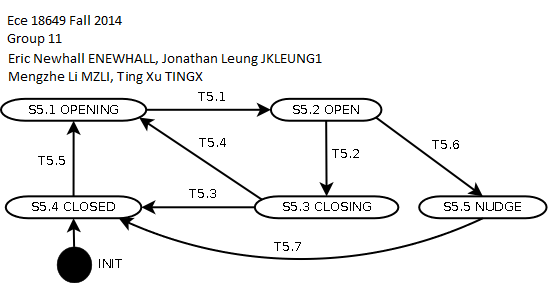
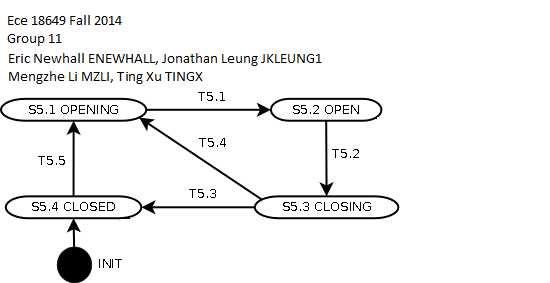
door control requirements completed

diff --git a/portfolio/reqs/requirements2.html b/portfolio/reqs/requirements2.html
@@ -1012,26 +1012,19 @@ positions at all times.<br>
 5.5&nbsp;&nbsp;&nbsp; If CarWeight(x) &gt;= MaxCarCapacity, the doors
 shall open completely until the car is no longer overloaded.
 <h3> TIME-TRIGGERED BEHAVIORS: </h3>
-5.6 &nbsp;&nbsp; If any ((mAtFloor[mDesiredFloor.f, b] = True or (mHallCall[mAtFloor.f, b, DesiredDirection] = True) , and (mDriveSpeed = (0, d) or mDriveSpeed = (s, Stop)))
-then: <br>
-&nbsp;&nbsp;&nbsp; 5.6.1&nbsp; DoorMotor[b, r] shall be commanded to
-Open; <br>
+5.6 &nbsp;&nbsp; If any ((mAtFloor[mDesiredFloor.f, b] = True and (mDriveSpeed = (0, d) or mDriveSpeed = (s, Stop))) then: <br>
+&nbsp;&nbsp;&nbsp; 5.6.1&nbsp; DoorMotor[b, r] shall be commanded to Open; <br>
 &nbsp;&nbsp;&nbsp; 5.6.2&nbsp; CountDown shall be set to Dwell.<br>
 
 5.7 &nbsp;&nbsp; If mDoorOpened[b, r] is True, then<br>
 &nbsp;&nbsp;&nbsp; 5.7.1&nbsp; DoorMotor[b,r] shall be commanded to
 Stop.<br>
 &nbsp;&nbsp;&nbsp; 5.7.2&nbsp; CountDown shall be decremented.<br>
-5.8&nbsp; If mDoorClosed[b, r] is True, then DoorMotor[b,r] should be
-commanded to Stop.<br>
-5.9 When Reversal = false and CountDown &lt;= 0 AND mCarWeight &lt; MaxCarCapacity, DoorMotor[b,r] should be commanded
-to Close.<br>
-5.10 If mCarWeight(g) &gt;= MaxCarCapacity, and mDoorOpened[b, r] is
-False, DoorMotor[b, r] shall be commanded to Open.<br>
+5.8&nbsp; If mDoorClosed[b, r] is True, then DoorMotor[b,r] should be commanded to Stop.<br>
+5.9 When CountDown &lt;= 0 AND mCarWeight &lt; MaxCarCapacity, DoorMotor[b,r] should be commanded to Close.<br>
+5.10 If mCarWeight(g) &gt;= MaxCarCapacity, and mDoorOpened[b, r] is False, DoorMotor[b, r] shall be commanded to Open.<br>
 5.11 mDoorMotor[b,r] shall be set to the current value of DoorMotor[b,r]<br>
 5.12 If mDoorReversal[b,*] is true and mDoorMotor = Close, then DoorMotor[b,*] shall be commanded to Open.<br>
-5.13 When Reversal = true and CountDown &lt;= 0 AND mCarWeight &lt; MaxCarCapacity, DoorMotor[b,r] should be commanded to Nudge.<br>
-
 
 <p> <img style="width: 550px; height: 283x;" alt="DoorControl Statechart" src="DoorControl_state_diagram.png"><br clear="left"> </p>
 <table style="text-align: left; width: 800px; height: 172px;" border="1" cellpadding="2" cellspacing="2">
@@ -1046,7 +1039,7 @@ False, DoorMotor[b, r] shall be commanded to Open.<br>
     </tr>
     <tr>
       <td style="vertical-align: top;">T5.2</td>
-      <td style="vertical-align: top;">Reversal = false and mCarWeight &lt; MaxCarCapacity and CountDown &lt;= 0 and mDesiredFloor.f != mAtFloor.f</td>
+      <td style="vertical-align: top;">mCarWeight &lt; MaxCarCapacity and CountDown &lt;= 0 and mDesiredFloor.f != mAtFloor.f</td>
     </tr>
     <tr>
       <td style="vertical-align: top;">T5.3</td>
@@ -1060,16 +1053,6 @@ False, DoorMotor[b, r] shall be commanded to Open.<br>
       <td style="vertical-align: top;">T5.5<br>
       </td>
       <td style="vertical-align: top;">mCarWeight &gt;= MaxCarCapacity or ((mAtFloor[mDesiredFloor.f, b] = True or (mHallCall[mAtFloor.f, b,DesiredDirection] = True) , and (mDriveSpeed = (0, d) or mDriveSpeed = (s, Stop)))</td>
-    </tr>
-    <tr>
-      <td style="vertical-align: top;">T5.6<br>
-      </td>
-      <td style="vertical-align: top;">Reversal = true and mCarWeight &lt; MaxCarCapacity and CountDown &lt;= 0 and mDesiredFloor.f != mAtFloor.f</td>
-    </tr>
-    <tr>
-      <td style="vertical-align: top;">T5.7<br>
-      </td>
-      <td style="vertical-align: top;">mDoorClosed[b,r] = Closed </td>
     </tr>
   </tbody>
 </table>
@@ -1109,7 +1092,6 @@ False, DoorMotor[b, r] shall be commanded to Open.<br>
         DoorMotor[b,r] = Close <br>
 	    mDoorMotor[b,r] = Close <br>
 	    CountDown = CountDown <br>
-      	Reversal = true<br>
 	</td>
     </tr>
   <tr>
@@ -1118,16 +1100,6 @@ False, DoorMotor[b, r] shall be commanded to Open.<br>
       <td style="vertical-align: top;">
         DoorMotor[b,r] = Stop <br>
 	    mDoorMotor[b,r] = Stop <br>
-	    CountDown = CountDown <br>
-	Reversal = false
-      </td>
-    </tr>
-   <tr>
-      <td style="vertical-align: top;">S5.5 NUDGE<br> </td>
-      <td style="vertical-align: top;">Car doors detected an object and switch to nudge speed</td>
-      <td style="vertical-align: top;">
-        DoorMotor[b,r] = Nudge <br>
-	    mDoorMotor[b,r] = Nudge <br>
 	    CountDown = CountDown <br>
       </td>
     </tr>
@@ -1181,10 +1153,6 @@ completed by Mengzhe Li (mzli)<br>
 	  <td
  style="vertical-align: top; background-color: rgb(204, 204, 204);">R5.12<br>
       </td>
-      <td
- style="vertical-align: top; background-color: rgb(204, 204, 204);">R5.13<br>
-      </td>
-
     </tr>
     <tr>
       <td
@@ -1208,8 +1176,6 @@ completed by Mengzhe Li (mzli)<br>
       </td>
       <td style="vertical-align: top;"><br>
       </td>
-      <td style="vertical-align: top;"><br>
-      </td>
     </tr>
     <tr>
       <td
@@ -1229,8 +1195,6 @@ completed by Mengzhe Li (mzli)<br>
       <td style="vertical-align: top;"><br>
 	  </td>
       <td style="vertical-align: top;">X<br>
-      </td>
-      <td style="vertical-align: top;"><br>
       </td>
       <td style="vertical-align: top;"><br>
       </td>
@@ -1257,8 +1221,6 @@ completed by Mengzhe Li (mzli)<br>
       </td>
       <td style="vertical-align: top;">X<br>
       </td>
-      <td style="vertical-align: top;"><br>
-      </td>
 	  </tr>
 	  <tr>
       <td
@@ -1282,35 +1244,8 @@ completed by Mengzhe Li (mzli)<br>
       </td>
       <td style="vertical-align: top;"><br>
       </td>
-      <td style="vertical-align: top;"><br>
-      </td>
 	  </tr>
-    <tr>
- <td
- style="vertical-align: top; background-color: rgb(204, 204, 204);">S5.5:&nbsp; NUDGE<br>
-      </td>
-      <td style="vertical-align: top;"><br>
-      </td>
-      <td style="vertical-align: top;"><br>
-      </td>
-      <td style="vertical-align: top;"><br>
-      </td>
-      <td style="vertical-align: top;"><br>
-      </td>
-      <td style="vertical-align: top;"><br>
-      </td>
-      <td style="vertical-align: top;"><br>
-      </td>
-      <td style="vertical-align: top;"><br>
-	  </td>
-      <td style="vertical-align: top;">X<br>
-      </td>
-      <td style="vertical-align: top;"><br>
-      </td>
-      <td style="vertical-align: top;">X<br>
-      </td>
-	  </tr>
-    <tr>
+     <tr>
       <td
  style="vertical-align: top; background-color: rgb(204, 204, 204);"><span
  style="font-weight: bold;">Transitions</span><br>
@@ -1318,8 +1253,6 @@ completed by Mengzhe Li (mzli)<br>
       <td style="vertical-align: top;"><br>
       </td>
 	   <td style="vertical-align: top;"><br>
-      </td>
-      <td style="vertical-align: top;"><br>
       </td>
       <td style="vertical-align: top;"><br>
       </td>
@@ -1358,8 +1291,6 @@ completed by Mengzhe Li (mzli)<br>
       </td>
       <td style="vertical-align: top;"><br>
       </td>
-      <td style="vertical-align: top;"><br>
-      </td>
     </tr>
     <tr>
       <td
@@ -1379,8 +1310,6 @@ completed by Mengzhe Li (mzli)<br>
       <td style="vertical-align: top;"><br>
 	  </td>
       <td style="vertical-align: top;">X<br>
-      </td>
-      <td style="vertical-align: top;"><br>
       </td>
       <td style="vertical-align: top;"><br>
       </td>
@@ -1406,8 +1335,6 @@ completed by Mengzhe Li (mzli)<br>
       </td>
       <td style="vertical-align: top;"><br>
       </td>
-      <td style="vertical-align: top;"><br>
-      </td>
     </tr>
     <tr>
       <td
@@ -1426,8 +1353,6 @@ completed by Mengzhe Li (mzli)<br>
       </td>
       <td style="vertical-align: top;"><br>
 	  </td>
-      <td style="vertical-align: top;">X<br>
-      </td>
       <td style="vertical-align: top;">X<br>
       </td>
       <td style="vertical-align: top;">X<br>
@@ -1454,57 +1379,8 @@ completed by Mengzhe Li (mzli)<br>
       </td>
       <td style="vertical-align: top;"><br>
       </td>
-      <td style="vertical-align: top;"><br>
-      </td>
     </tr>
  <tr>
-      <td
- style="vertical-align: top; background-color: rgb(204, 204, 204);">T5.6</td>
-      <td style="vertical-align: top;">X<br>
-      </td>
-      <td style="vertical-align: top;">X<br>
-      </td>
-      <td style="vertical-align: top;"><br>
-      </td>
-      <td style="vertical-align: top;"><br>
-      </td>
-      <td style="vertical-align: top;"><br>
-      </td>
-      <td style="vertical-align: top;">X<br>
-      </td>
-      <td style="vertical-align: top;"><br>
-	  </td>
-      <td style="vertical-align: top;">X<br>
-      </td>
-      <td style="vertical-align: top;"><br>
-      </td>
-      <td style="vertical-align: top;"><br>
-      </td>
-    </tr>
- <tr>
-      <td
- style="vertical-align: top; background-color: rgb(204, 204, 204);">T5.7</td>
-      <td style="vertical-align: top;">X<br>
-      </td>
-      <td style="vertical-align: top;">X<br>
-      </td>
-      <td style="vertical-align: top;"><br>
-      </td>
-      <td style="vertical-align: top;"><br>
-      </td>
-      <td style="vertical-align: top;">X<br>
-      </td>
-      <td style="vertical-align: top;"><br>
-      </td>
-      <td style="vertical-align: top;"><br>
-	  </td>
-      <td style="vertical-align: top;">X<br>
-      </td>
-      <td style="vertical-align: top;"><br>
-      </td>
-      <td style="vertical-align: top;"><br>
-      </td>
-    </tr>
   </tbody>
 </table>
 <h2><a name="drivecontrol"></a> 6. DriveControl </h2>
